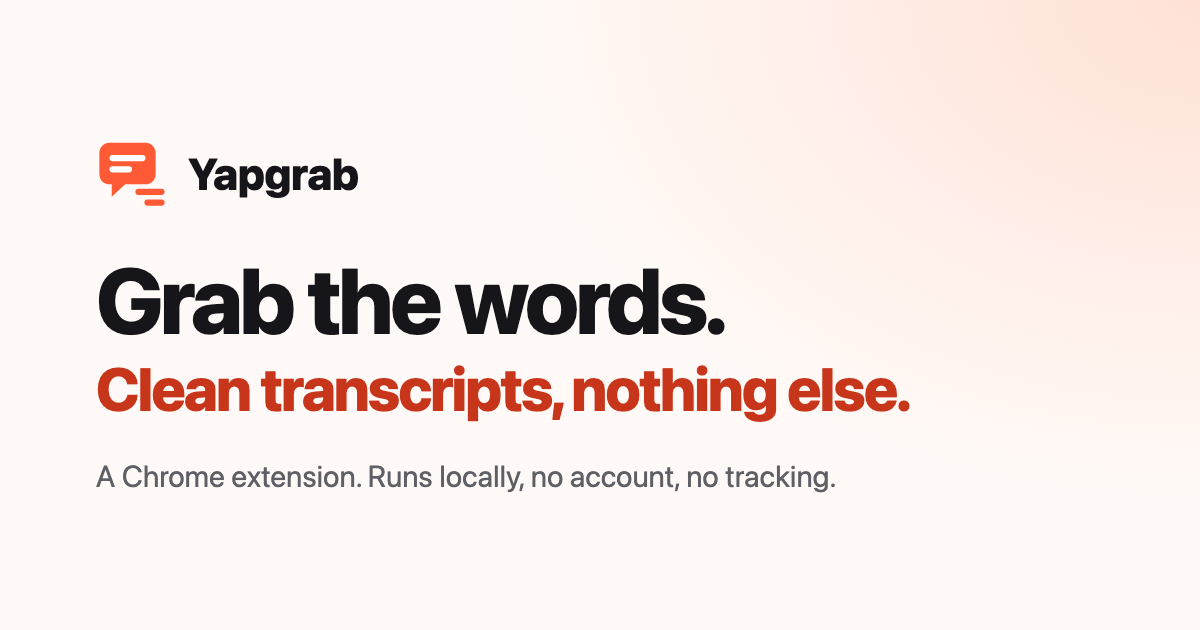
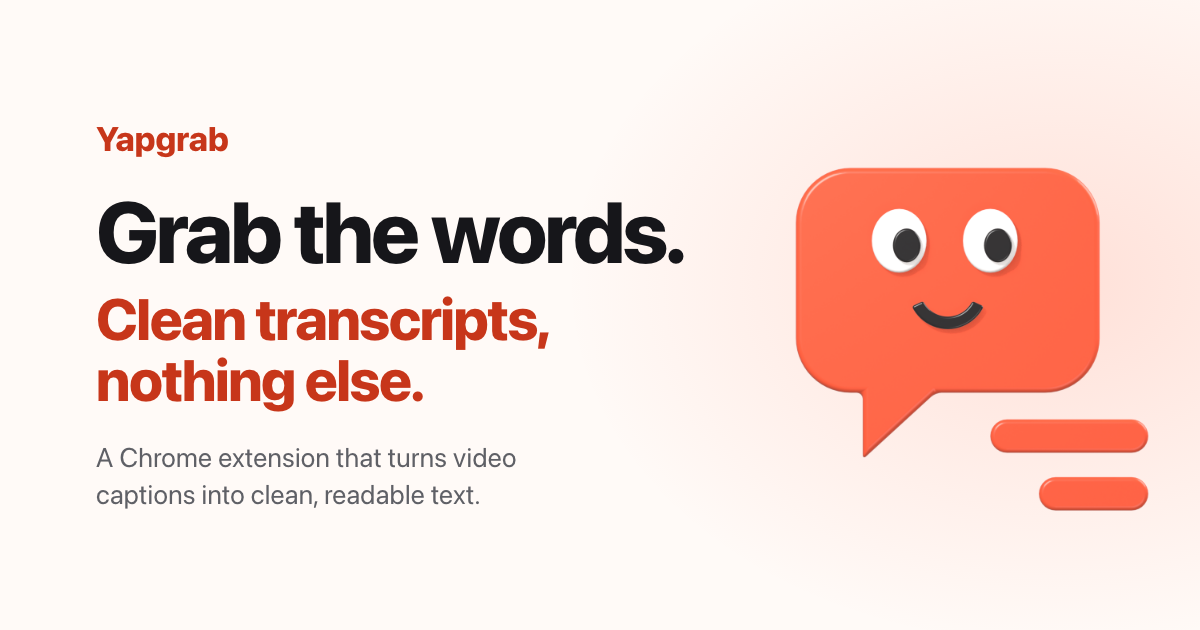
Yappy on the site: animated in the closing section, and in the link preview image
The flat logo above "Coming soon" becomes a 4-second Yappy loop (animated
WebP, lazy loaded); people who turn off motion get a still picture. og.png
now shows Yappy next to the headline. Rendered in the extension repo by
scripts/site-assets.mjs.

diff --git a/index.html b/index.html
@@ -13,7 +13,7 @@
   <meta property="og:image" content="https://suiiusbv.github.io/yapgrab/assets/og.png">
   <meta property="og:image:width" content="1200">
   <meta property="og:image:height" content="630">
-  <meta property="og:image:alt" content="Grab the words. Clean transcripts, nothing else.">
+  <meta property="og:image:alt" content="Yappy, the Yapgrab mascot, next to the words: Grab the words. Clean transcripts, nothing else.">
   <meta name="twitter:card" content="summary_large_image">
   <meta name="theme-color" content="#FFFAF7" media="(prefers-color-scheme: light)">
   <meta name="theme-color" content="#121216" media="(prefers-color-scheme: dark)">
@@ -408,7 +408,10 @@ You nodded along, you even paused it
 
     <section class="section closing">
       <div class="wrap reveal">
-        <img src="assets/icon.svg" alt="" width="56" height="56">
+        <picture>
+          <source srcset="assets/yappy-still.webp" media="(prefers-reduced-motion: reduce)">
+          <img class="yappy" src="assets/yappy.webp" alt="Yappy, the Yapgrab mascot: a speech bubble with eyes that yaps out two lines of words" width="180" height="180" loading="lazy" decoding="async">
+        </picture>
         <h2>Coming soon to the Chrome Web Store.</h2>
         <p class="sub">Yapgrab is not in the store yet. Want the bigger version when it lands? Join the Pro waitlist.</p>
         <a class="btn" href="https://tally.so/r/2jA2Lp" rel="noopener">Join the waitlist <span class="arrow" aria-hidden="true">&rarr;</span></a>

diff --git a/assets/home.css b/assets/home.css
@@ -236,11 +236,11 @@ kbd { display: inline-block; min-width: 30px; padding: 4px 9px; border-radius: 8
 /* Closing */
 .closing { text-align: center; padding: 96px 0 104px; position: relative; }
 .closing::before { content: ""; position: absolute; inset: 0; z-index: -1; pointer-events: none; background: radial-gradient(560px 300px at 50% 100%, var(--accent-soft), transparent 70%); }
-.closing img { width: 56px; height: 56px; }
-.closing h2 { margin-top: 18px; }
+.closing .yappy { display: block; width: 180px; height: 180px; margin: 0 auto; }
+.closing h2 { margin-top: 6px; }
 .closing .sub { margin-inline: auto; }
 .closing .btn { margin-top: 30px; }
-@media (max-width: 900px) { .closing { padding: 64px 0 72px; } }
+@media (max-width: 900px) { .closing { padding: 64px 0 72px; } .closing .yappy { width: 150px; height: 150px; } }
 
 /* Scroll reveal: only hides anything once the script has run. */
 .js .reveal { opacity: 0; transform: translateY(18px); transition: opacity .6s ease, transform .7s cubic-bezier(.2, .8, .2, 1); transition-delay: var(--d, 0s); }
